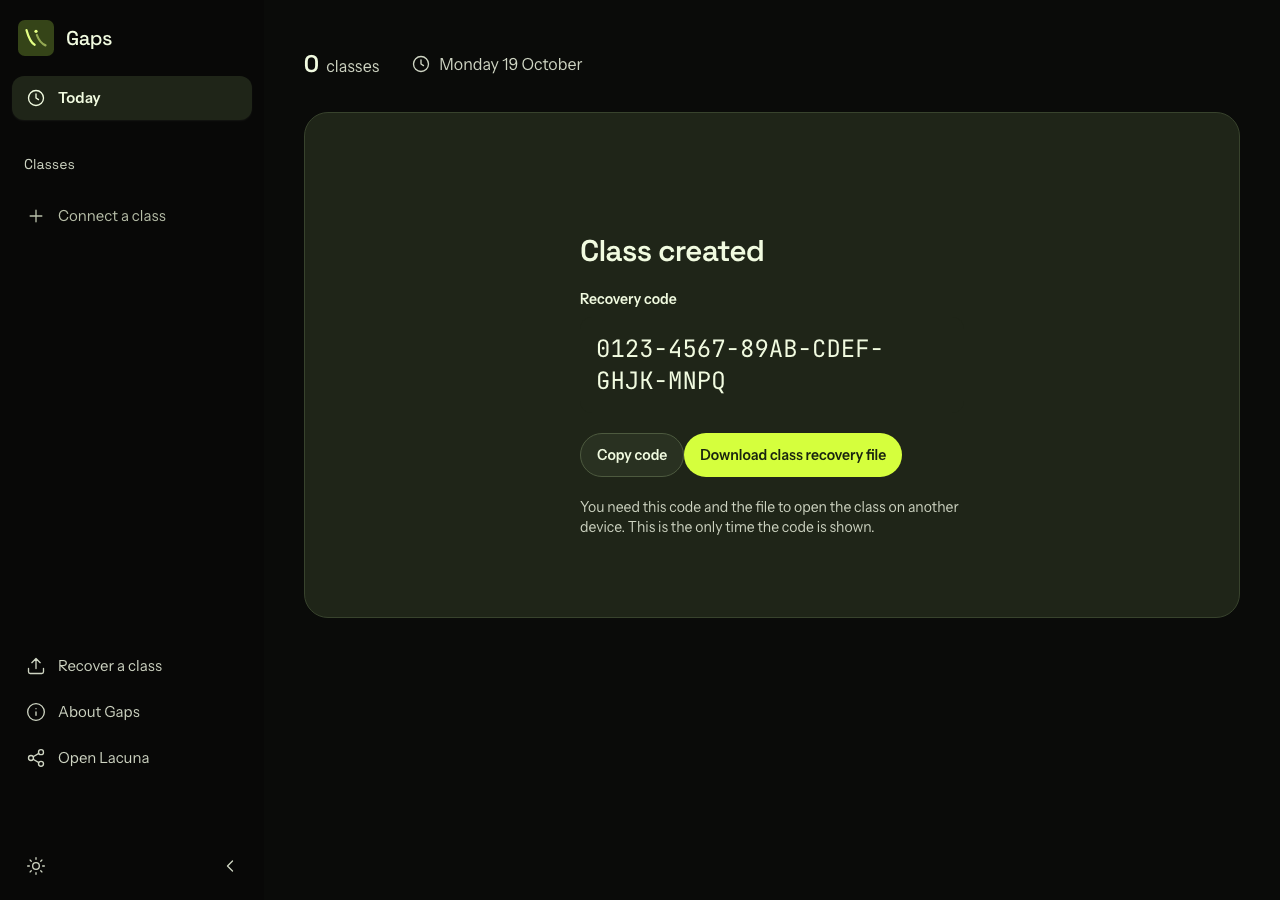
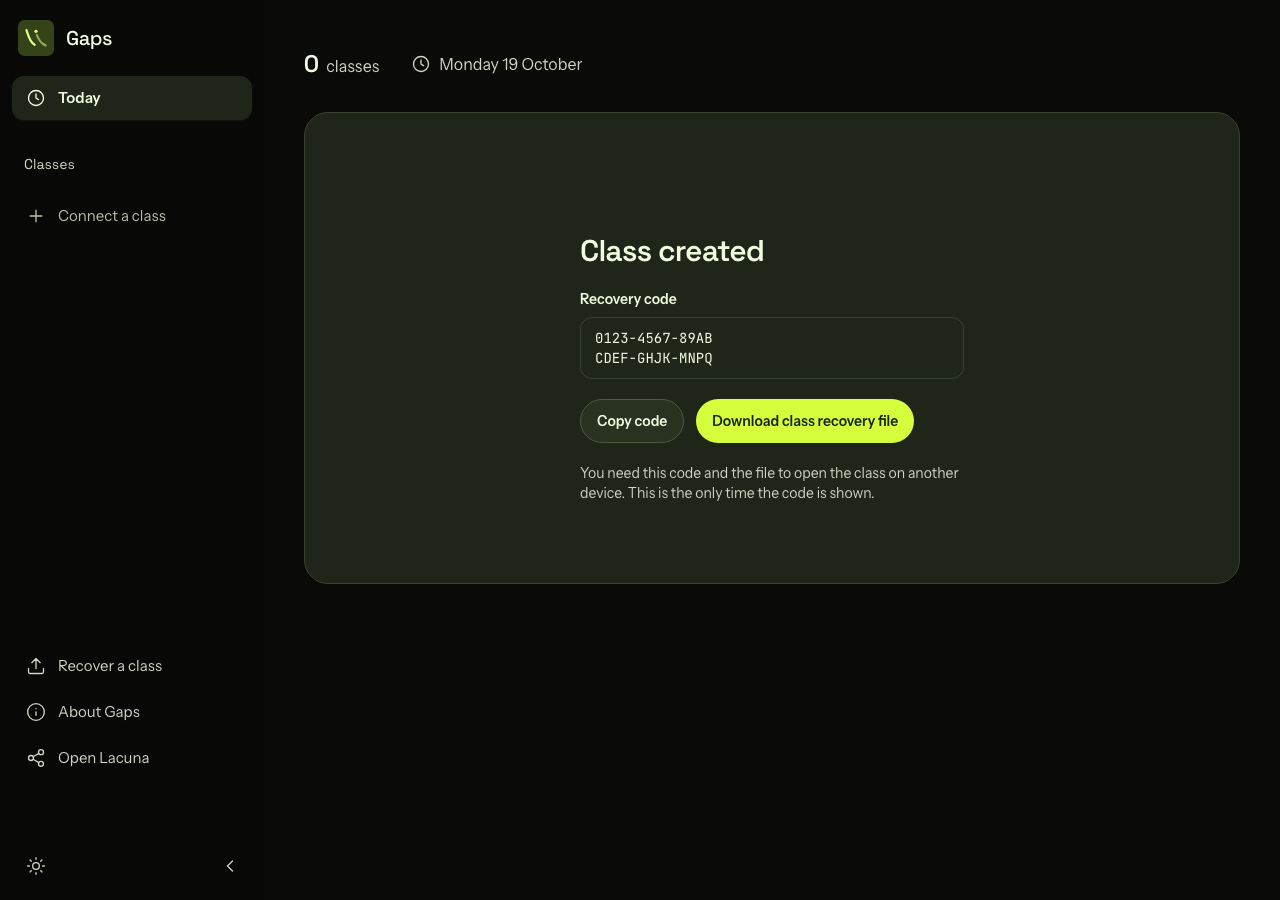
Roll back unfinished Gaps class creation

Changed region(s): [[0.4375, 0.3733, 0.75, 0.5911], [0.2188, 0.6222, 0.9688, 0.6844]]

diff --git a/src/teacher/CreateGapsClass.tsx b/src/teacher/CreateGapsClass.tsx
@@ -1,6 +1,6 @@
 import { RememberClassCheckbox } from './gapsUi';
 import { useEffect, useRef, useState, type FormEvent } from 'react';
-import { Field, Input } from '../components/ui/Field';
+import { Field, Input, inputFrameClassName } from '../components/ui/Field';
 import { buttonClassName } from '../components/ui/buttonStyles';
 import { createInsightsOwnerStore } from '../insights/ownerStore';
 import { createGapsConnectionStore } from './connectionStore';
@@ -20,8 +20,11 @@ export function CreateGapsClass({
 }) {
   const [link, setLink] = useState(initialCourseLink);
   const [remember, setRemember] = useState(true);
-  const [pending, setPending] = useState<{ shareId: string; code: string } | null>(null);
-  const [session, setSession] = useState<ClassSession | null>(null);
+  const [created, setCreated] = useState<{
+    shareId: string;
+    code: string;
+    session: ClassSession;
+  } | null>(null);
   const [busy, setBusy] = useState(false);
   const [error, setError] = useState<string | null>(null);
   const [copied, setCopied] = useState(false);
@@ -29,8 +32,8 @@ export function CreateGapsClass({
   const controller = useRef<AbortController | null>(null);
   const doneHeading = useRef<HTMLHeadingElement>(null);
   useEffect(() => {
-    if (session) doneHeading.current?.focus();
-  }, [session]);
+    if (created) doneHeading.current?.focus();
+  }, [created]);
   const linkInput = useRef<HTMLInputElement>(null);
   const submitButton = useRef<HTMLButtonElement>(null);
   useEffect(() => {
@@ -52,30 +55,33 @@ export function CreateGapsClass({
     controller.current = request;
     const connections = createGapsConnectionStore(),
       keys = createInsightsOwnerStore();
-    let prepared = pending;
+    let shareId: string | undefined;
     try {
-      if (!prepared) {
-        const code = generateRecoveryCode();
-        const shareId = await connections.createFromLink(link, code, { signal: request.signal });
-        prepared = { shareId, code };
-        if (request.signal.aborted) return;
-        setPending(prepared);
-      }
-      const { shareId, code } = prepared;
-      const owner = (await keys.unlock(shareId, code)) ?? (await keys.create(shareId, code));
+      const code = generateRecoveryCode();
+      shareId = await connections.createFromLink(link, code, { signal: request.signal });
+      request.signal.throwIfAborted();
+      const owner = await keys.create(shareId, code);
+      request.signal.throwIfAborted();
       await connections.markRecoveryCode(shareId);
       const connection = await connections.unlock(shareId, code);
       if (!connection) throw new Error();
       const next: ClassSession = { connection, owner, days: new Map() };
-      if (remember) next.remembered = await rememberClass(next);
-      if (!request.signal.aborted) {
-        setSession(next);
-        onCreated?.();
+      request.signal.throwIfAborted();
+      if (remember) {
+        next.remembered = await rememberClass(next);
+        if (!next.remembered) throw new Error();
       }
+      request.signal.throwIfAborted();
+      setCreated({ shareId, code, session: next });
+      onCreated?.();
     } catch (cause) {
+      if (shareId) {
+        // Attempt both stores even if one cannot remove its records.
+        await Promise.allSettled([connections.forget(shareId), keys.forget(shareId)]);
+      }
       if (!request.signal.aborted)
         setError(
-          prepared
+          shareId
             ? 'Could not finish setting up the class. Try again.'
             : cause instanceof Error
               ? cause.message
@@ -89,17 +95,17 @@ export function CreateGapsClass({
   }
 
   async function download() {
-    if (!pending) return;
+    if (!created) return;
     setError(null);
     try {
-      await downloadClassRecoveryFile(pending.shareId);
+      await downloadClassRecoveryFile(created.shareId);
       setDownloaded(true);
     } catch {
       setError('Could not finish setting up the class. Try again.');
     }
   }
 
-  if (session && pending)
+  if (created)
     return (
       <div className="space-y-5">
         <h2 ref={doneHeading} tabIndex={-1} className="font-display text-3xl font-semibold">
@@ -111,30 +117,37 @@ export function CreateGapsClass({
           </p>
           <div
             aria-labelledby="recovery-code-label"
-            className="mt-2 select-text break-words rounded-xl bg-surface p-4 font-mono text-2xl"
+            className={`mt-2 select-text font-mono text-sm ${inputFrameClassName}`}
           >
-            {formatRecoveryCode(pending.code)}
+            <span className="block whitespace-nowrap">
+              {formatRecoveryCode(created.code.slice(0, 12))}
+            </span>
+            <span className="block whitespace-nowrap">
+              {formatRecoveryCode(created.code.slice(12))}
+            </span>
           </div>
         </div>
-        <button
-          type="button"
-          className={buttonClassName('secondary')}
-          onClick={() => {
-            void navigator.clipboard.writeText(formatRecoveryCode(pending.code)).then(
-              () => setCopied(true),
-              () => undefined,
-            );
-          }}
-        >
-          {copied ? 'Copied' : 'Copy code'}
-        </button>
-        <button
-          type="button"
-          className={buttonClassName('primary')}
-          onClick={() => void download()}
-        >
-          Download class recovery file
-        </button>
+        <div className="flex flex-wrap items-center gap-3">
+          <button
+            type="button"
+            className={buttonClassName('secondary')}
+            onClick={() => {
+              void navigator.clipboard.writeText(formatRecoveryCode(created.code)).then(
+                () => setCopied(true),
+                () => undefined,
+              );
+            }}
+          >
+            {copied ? 'Copied' : 'Copy code'}
+          </button>
+          <button
+            type="button"
+            className={buttonClassName('primary')}
+            onClick={() => void download()}
+          >
+            Download class recovery file
+          </button>
+        </div>
         <p className="text-sm text-ink-soft">
           You need this code and the file to open the class on another device. This is the only time
           the code is shown.
@@ -143,7 +156,7 @@ export function CreateGapsClass({
           <button
             type="button"
             className={buttonClassName('primary')}
-            onClick={() => onConnected(pending.shareId, session)}
+            onClick={() => onConnected(created.shareId, created.session)}
           >
             Continue to class
           </button>
@@ -159,14 +172,13 @@ export function CreateGapsClass({
     <form
       aria-label="Create class from a course link"
       onSubmit={(event) => void create(event)}
-      className="mt-5 space-y-4"
+      className="mt-5 space-y-5"
     >
-      <fieldset disabled={busy} className="space-y-4">
+      <fieldset disabled={busy} className="space-y-5">
         <Field label="Course link or code">
           <Input
             ref={linkInput}
             value={link}
-            disabled={Boolean(pending)}
             onChange={(event) => setLink(event.target.value)}
             required
           />

diff --git a/src/teacher/CreateGapsClass.test.tsx b/src/teacher/CreateGapsClass.test.tsx
@@ -7,7 +7,8 @@ const mocks = vi.hoisted(() => ({
   unlock: vi.fn(),
   markRecoveryCode: vi.fn(),
   create: vi.fn(),
-  unlockKey: vi.fn(),
+  forgetConnection: vi.fn(),
+  forgetKey: vi.fn(),
   remember: vi.fn(),
   download: vi.fn(),
 }));
@@ -16,13 +17,14 @@ vi.mock('./connectionStore', () => ({
     createFromLink: mocks.createFromLink,
     unlock: mocks.unlock,
     markRecoveryCode: mocks.markRecoveryCode,
+    forget: mocks.forgetConnection,
     close: vi.fn(),
   }),
 }));
 vi.mock('../insights/ownerStore', () => ({
   createInsightsOwnerStore: () => ({
     create: mocks.create,
-    unlock: mocks.unlockKey,
+    forget: mocks.forgetKey,
     close: vi.fn(),
   }),
 }));
@@ -35,7 +37,8 @@ beforeEach(() => {
   vi.clearAllMocks();
   mocks.createFromLink.mockResolvedValue(shareId);
   mocks.unlock.mockResolvedValue(connection);
-  mocks.unlockKey.mockResolvedValue(null);
+  mocks.forgetConnection.mockResolvedValue(undefined);
+  mocks.forgetKey.mockResolvedValue(undefined);
   mocks.create.mockResolvedValue(owner);
   mocks.remember.mockResolvedValue(true);
 });
@@ -56,7 +59,12 @@ it('creates both secrets with one generated code and continues only after downlo
   expect(mocks.create).toHaveBeenCalledWith(shareId, code);
   expect(mocks.markRecoveryCode).toHaveBeenCalledWith(shareId);
   expect(mocks.remember).toHaveBeenCalledWith(expect.objectContaining({ connection, owner }));
-  expect(screen.getByLabelText('Recovery code')).toHaveTextContent(code.match(/.{4}/g).join('-'));
+  expect(screen.getByLabelText('Recovery code').children[0]).toHaveTextContent(
+    code.slice(0, 12).match(/.{4}/g).join('-'),
+  );
+  expect(screen.getByLabelText('Recovery code').children[1]).toHaveTextContent(
+    code.slice(12).match(/.{4}/g).join('-'),
+  );
   expect(
     screen.getByText(
       'You need this code and the file to open the class on another device. This is the only time the code is shown.',
@@ -67,17 +75,78 @@ it('creates both secrets with one generated code and continues only after downlo
   fireEvent.click(await screen.findByRole('button', { name: 'Continue to class' }));
   expect(connected).toHaveBeenCalledWith(shareId, expect.objectContaining({ connection, owner }));
 });
-it('retries a failed key step with the same class and code', async () => {
+it('rolls back a failed key step and retries with exactly one saved class and a new code', async () => {
+  const saved = new Set<string>();
+  const nextShareId = 'b'.repeat(32);
+  mocks.createFromLink.mockImplementation(async () => {
+    const id = mocks.createFromLink.mock.calls.length === 1 ? shareId : nextShareId;
+    saved.add(id);
+    return id;
+  });
+  mocks.forgetConnection.mockImplementation(async (id: string) => {
+    saved.delete(id);
+  });
   mocks.create.mockRejectedValueOnce(new Error('storage failure'));
   render(<CreateGapsClass onConnected={vi.fn()} />);
   submit();
   expect(await screen.findByRole('alert')).toHaveTextContent(
     'Could not finish setting up the class. Try again.',
   );
+  expect([...saved]).toEqual([]);
+  expect(mocks.forgetConnection).toHaveBeenCalledWith(shareId);
+  expect(mocks.forgetKey).toHaveBeenCalledWith(shareId);
   submit();
   await screen.findByRole('heading', { name: 'Class created' });
-  expect(mocks.createFromLink).toHaveBeenCalledTimes(1);
-  expect(mocks.create.mock.calls[1]).toEqual(mocks.create.mock.calls[0]);
+  expect([...saved]).toEqual([nextShareId]);
+  expect(mocks.createFromLink).toHaveBeenCalledTimes(2);
+  expect(mocks.create.mock.calls[1][1]).not.toEqual(mocks.create.mock.calls[0][1]);
+});
+it('rolls back both records when remembering fails', async () => {
+  mocks.remember.mockResolvedValueOnce(false);
+  render(<CreateGapsClass onConnected={vi.fn()} />);
+  submit();
+  expect(await screen.findByRole('alert')).toHaveTextContent(
+    'Could not finish setting up the class. Try again.',
+  );
+  expect(mocks.forgetConnection).toHaveBeenCalledWith(shareId);
+  expect(mocks.forgetKey).toHaveBeenCalledWith(shareId);
+  expect(screen.queryByRole('heading', { name: 'Class created' })).not.toBeInTheDocument();
+});
+it.each(['resolve', 'reject'] as const)(
+  'rolls back after unmount while key creation is in flight (%s)',
+  async (outcome) => {
+    let finish!: (value: unknown) => void;
+    mocks.create.mockImplementationOnce(
+      () =>
+        new Promise((resolve, reject) => {
+          finish = outcome === 'resolve' ? resolve : reject;
+        }),
+    );
+    const onCreated = vi.fn();
+    const view = render(<CreateGapsClass onConnected={vi.fn()} onCreated={onCreated} />);
+    submit();
+    await waitFor(() => expect(mocks.create).toHaveBeenCalled());
+    view.unmount();
+    await act(async () => {
+      finish(outcome === 'resolve' ? owner : new Error('storage failure'));
+    });
+    expect(mocks.forgetConnection).toHaveBeenCalledWith(shareId);
+    expect(mocks.forgetKey).toHaveBeenCalledWith(shareId);
+    expect(mocks.remember).not.toHaveBeenCalled();
+    expect(onCreated).not.toHaveBeenCalled();
+  },
+);
+it('attempts both removals and keeps the setup error when rollback fails', async () => {
+  mocks.create.mockRejectedValueOnce(new Error('key failure'));
+  mocks.forgetConnection.mockRejectedValueOnce(new Error('connection removal failure'));
+  mocks.forgetKey.mockRejectedValueOnce(new Error('key removal failure'));
+  render(<CreateGapsClass onConnected={vi.fn()} />);
+  submit();
+  expect(await screen.findByRole('alert')).toHaveTextContent(
+    'Could not finish setting up the class. Try again.',
+  );
+  expect(mocks.forgetConnection).toHaveBeenCalledWith(shareId);
+  expect(mocks.forgetKey).toHaveBeenCalledWith(shareId);
 });
 it('does not remember when unchecked', async () => {
   render(<CreateGapsClass onConnected={vi.fn()} />);
@@ -99,7 +168,9 @@ it('copies the formatted code and resets the success label after two seconds', a
       fireEvent.click(screen.getByRole('button', { name: 'Copy code' }));
     });
     expect(screen.getByRole('button', { name: 'Copied' })).toBeVisible();
-    expect(writeText).toHaveBeenCalledWith(screen.getByLabelText('Recovery code').textContent);
+    expect(writeText).toHaveBeenCalledWith(
+      mocks.createFromLink.mock.calls[0][1].match(/.{4}/g).join('-'),
+    );
     act(() => {
       vi.advanceTimersByTime(1999);
     });

diff --git a/tests/e2e/gaps-course-connection.spec.ts b/tests/e2e/gaps-course-connection.spec.ts
@@ -348,7 +348,11 @@ for (const width of [1280, 390]) {
     await expect(page.getByRole('heading', { name: 'Class created' })).toBeFocused();
     await expect(page.getByRole('heading', { name: 'Connect your first class' })).toHaveCount(0);
     await expect(page.getByRole('group', { name: 'Class connection method' })).toHaveCount(0);
-    await expect(page.getByLabel('Recovery code')).toHaveText('0123-4567-89AB-CDEF-GHJK-MNPQ');
+    const recovery = page.getByLabel('Recovery code');
+    await expect(recovery.locator('span')).toHaveText(['0123-4567-89AB', 'CDEF-GHJK-MNPQ']);
+    expect(await page.evaluate(() => document.documentElement.scrollWidth <= innerWidth)).toBe(
+      true,
+    );
     await expect(page.getByRole('button', { name: 'Continue to class' })).toHaveCount(0);
     await page.screenshot({
       animations: 'disabled',

diff --git a/src/insights/ownerStore.test.ts b/src/insights/ownerStore.test.ts
@@ -227,3 +227,14 @@ it('silently declines remembering when CryptoKey cloning fails, retaining passph
   expect(await store.readRemembered(shareId)).toBeNull();
   expect((await store.unlock(shareId, passphrase))!.recipient).toEqual(owner.recipient);
 });
+
+it('removes the sealed owner key and remembered access together', async () => {
+  const store = openStore();
+  const owner = await store.create(shareId, passphrase);
+  expect(await store.rememberOnDevice(shareId, owner)).toBe(true);
+  await store.forget(shareId);
+  store.close();
+  const reopened = openStore();
+  expect(await reopened.unlock(shareId, passphrase)).toBeNull();
+  expect(await reopened.readRemembered(shareId)).toBeNull();
+});

diff --git a/src/insights/ownerStore.ts b/src/insights/ownerStore.ts
@@ -115,6 +115,13 @@ export function createInsightsOwnerStore(databaseName = 'lacuna.gaps.owner-keys'
       await remembered.delete(shareId);
     },
 
+    async forget(shareId: string): Promise<void> {
+      await database.transaction('rw', owners, remembered, async () => {
+        await remembered.delete(shareId);
+        await owners.delete(shareId);
+      });
+    },
+
     close(): void {
       database.close();
     },

diff --git a/src/teacher/index.css b/src/teacher/index.css
@@ -6,6 +6,7 @@
 @source './gapsUi.tsx';
 @source './TeacherKeySetup.tsx';
 @source './TeacherCourses.tsx';
+@source './CreateGapsClass.tsx';
 @source './TeacherClassReports.tsx';
 @source '../components/ui/Field.tsx';
 @source '../components/course/coursePageLayout.ts';

diff --git a/docs/review-evidence/gaps-recovery-code/README.md b/docs/review-evidence/gaps-recovery-code/README.md
@@ -19,8 +19,10 @@ recovery remain covered by the same browser run.
 Validation command:
 
 ```sh
-PLAYWRIGHT_WEB_PORT=4317 bun run verify:browser -- --gaps --project=chromium gaps-course-connection.spec.ts gaps-teacher-keys.spec.ts gaps-standalone.spec.ts
+PLAYWRIGHT_WEB_PORT=4317 bun run verify:browser -- --gaps --project=chromium gaps-course-connection.spec.ts
 ```
 
-Result: 10 tests passed. Browser automation does not replace a teacher usability
+Result: 4 tests passed. The create form uses the unlock form’s vertical spacing;
+the recovery code has two unbroken lines in the standard input frame, and the
+action buttons wrap with a gap. Neither viewport has horizontal overflow. Browser automation does not replace a teacher usability
 session or independent human review of the storage and recovery changes.

diff --git a/docs/changes/unreleased/gaps-recovery-code.md b/docs/changes/unreleased/gaps-recovery-code.md
@@ -1,1 +1,2 @@
 - New Gaps classes generate one recovery code and download one class recovery file, with remembered access enabled by default. Creation continues unlocked after the download is requested; the combined file restores access on another device. Existing classes keep their passphrases and separate files.
+- Roll back unfinished Gaps class creation after key or remembered-access failures, and correct recovery-code and form spacing. (#645)
